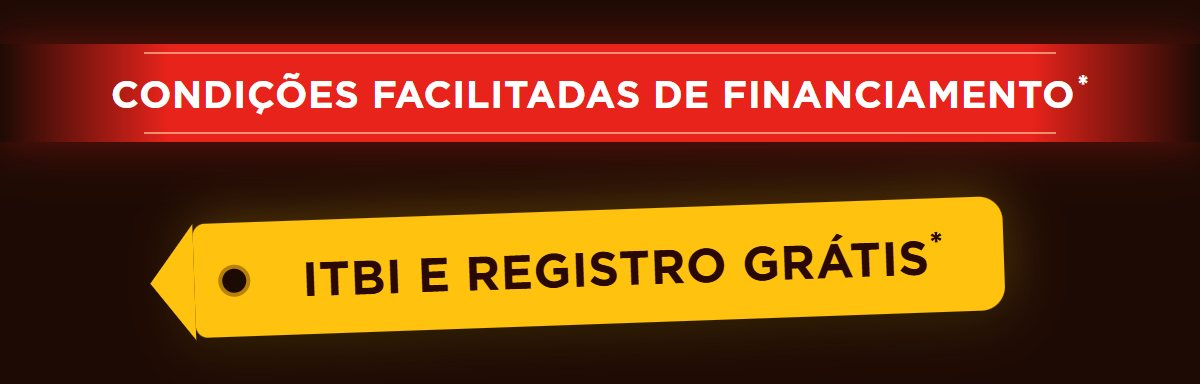
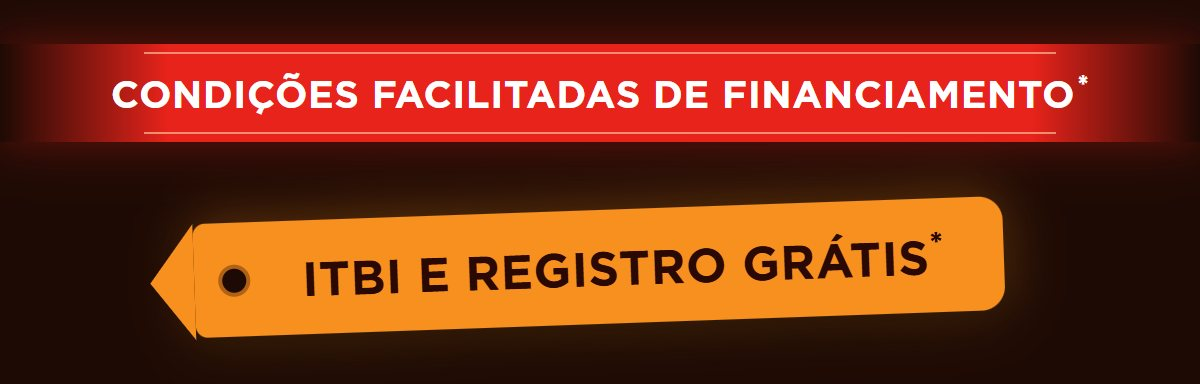
Tag de ITBI em laranja e botão de CTA em uma linha
- Tag "ITBI e registro grátis" passa de amarelo para laranja (#F7901E),
  separando-a do botão amarelo
- Fonte do botão de 20px para 18px para o texto do e-mail 01 caber em
  uma linha no desktop

Changed region(s): [[0.1233, 0.5, 0.8633, 0.9062]]

diff --git a/now29-black-2026/email-01-abertura.html b/now29-black-2026/email-01-abertura.html
@@ -86,11 +86,11 @@
               <!--[if mso]>
               <v:roundrect xmlns:v="urn:schemas-microsoft-com:vml" xmlns:w="urn:schemas-microsoft-com:office:word" href="#" style="height:74px;v-text-anchor:middle;width:544px;" arcsize="50%" strokecolor="#FFFFFF" strokeweight="3px" fillcolor="#FFC20E">
                 <w:anchorlock/>
-                <center style="color:#2A0904;font-family:Arial,sans-serif;font-size:20px;font-weight:bold;text-transform:uppercase;">Quero aproveitar essa oportunidade &rarr;</center>
+                <center style="color:#2A0904;font-family:Arial,sans-serif;font-size:18px;font-weight:bold;text-transform:uppercase;">Quero aproveitar essa oportunidade &rarr;</center>
               </v:roundrect>
               <![endif]-->
               <!--[if !mso]><!-->
-              <a href="#" target="_blank" class="btn" style="display:block;background-color:#FFC20E;color:#2A0904;font-family:'Montserrat','Segoe UI',Arial,Helvetica,sans-serif;font-size:20px;line-height:26px;font-weight:800;letter-spacing:.4px;text-transform:uppercase;text-decoration:none;text-align:center;padding:22px 20px;border:3px solid #FFFFFF;border-radius:999px;box-shadow:0 0 0 6px rgba(255,194,14,.22),0 0 38px 6px rgba(255,170,20,.65);mso-hide:all;">Quero aproveitar essa oportunidade&nbsp;&rarr;</a>
+              <a href="#" target="_blank" class="btn" style="display:block;background-color:#FFC20E;color:#2A0904;font-family:'Montserrat','Segoe UI',Arial,Helvetica,sans-serif;font-size:18px;line-height:24px;font-weight:800;letter-spacing:.3px;text-transform:uppercase;text-decoration:none;text-align:center;padding:23px 14px;border:3px solid #FFFFFF;border-radius:999px;box-shadow:0 0 0 6px rgba(255,194,14,.22),0 0 38px 6px rgba(255,170,20,.65);mso-hide:all;">Quero aproveitar essa oportunidade&nbsp;&rarr;</a>
               <!--<![endif]-->
             </td>
           </tr>

diff --git a/now29-black-2026/email-03-reta-final.html b/now29-black-2026/email-03-reta-final.html
@@ -96,11 +96,11 @@
               <!--[if mso]>
               <v:roundrect xmlns:v="urn:schemas-microsoft-com:vml" xmlns:w="urn:schemas-microsoft-com:office:word" href="#" style="height:74px;v-text-anchor:middle;width:544px;" arcsize="50%" strokecolor="#FFFFFF" strokeweight="3px" fillcolor="#FFC20E">
                 <w:anchorlock/>
-                <center style="color:#2A0904;font-family:Arial,sans-serif;font-size:20px;font-weight:bold;text-transform:uppercase;">Quero aproveitar antes de acabar &rarr;</center>
+                <center style="color:#2A0904;font-family:Arial,sans-serif;font-size:18px;font-weight:bold;text-transform:uppercase;">Quero aproveitar antes de acabar &rarr;</center>
               </v:roundrect>
               <![endif]-->
               <!--[if !mso]><!-->
-              <a href="#" target="_blank" class="btn" style="display:block;background-color:#FFC20E;color:#2A0904;font-family:'Montserrat','Segoe UI',Arial,Helvetica,sans-serif;font-size:20px;line-height:26px;font-weight:800;letter-spacing:.4px;text-transform:uppercase;text-decoration:none;text-align:center;padding:22px 20px;border:3px solid #FFFFFF;border-radius:999px;box-shadow:0 0 0 6px rgba(255,194,14,.22),0 0 38px 6px rgba(255,170,20,.65);mso-hide:all;">Quero aproveitar antes de acabar&nbsp;&rarr;</a>
+              <a href="#" target="_blank" class="btn" style="display:block;background-color:#FFC20E;color:#2A0904;font-family:'Montserrat','Segoe UI',Arial,Helvetica,sans-serif;font-size:18px;line-height:24px;font-weight:800;letter-spacing:.3px;text-transform:uppercase;text-decoration:none;text-align:center;padding:23px 14px;border:3px solid #FFFFFF;border-radius:999px;box-shadow:0 0 0 6px rgba(255,194,14,.22),0 0 38px 6px rgba(255,170,20,.65);mso-hide:all;">Quero aproveitar antes de acabar&nbsp;&rarr;</a>
               <!--<![endif]-->
             </td>
           </tr>

diff --git a/now29-black-2026/email-02-reforco.html b/now29-black-2026/email-02-reforco.html
@@ -91,11 +91,11 @@
               <!--[if mso]>
               <v:roundrect xmlns:v="urn:schemas-microsoft-com:vml" xmlns:w="urn:schemas-microsoft-com:office:word" href="#" style="height:74px;v-text-anchor:middle;width:544px;" arcsize="50%" strokecolor="#FFFFFF" strokeweight="3px" fillcolor="#FFC20E">
                 <w:anchorlock/>
-                <center style="color:#2A0904;font-family:Arial,sans-serif;font-size:20px;font-weight:bold;text-transform:uppercase;">Quero simular meu Now 29 &rarr;</center>
+                <center style="color:#2A0904;font-family:Arial,sans-serif;font-size:18px;font-weight:bold;text-transform:uppercase;">Quero simular meu Now 29 &rarr;</center>
               </v:roundrect>
               <![endif]-->
               <!--[if !mso]><!-->
-              <a href="#" target="_blank" class="btn" style="display:block;background-color:#FFC20E;color:#2A0904;font-family:'Montserrat','Segoe UI',Arial,Helvetica,sans-serif;font-size:20px;line-height:26px;font-weight:800;letter-spacing:.4px;text-transform:uppercase;text-decoration:none;text-align:center;padding:22px 20px;border:3px solid #FFFFFF;border-radius:999px;box-shadow:0 0 0 6px rgba(255,194,14,.22),0 0 38px 6px rgba(255,170,20,.65);mso-hide:all;">Quero simular meu Now 29&nbsp;&rarr;</a>
+              <a href="#" target="_blank" class="btn" style="display:block;background-color:#FFC20E;color:#2A0904;font-family:'Montserrat','Segoe UI',Arial,Helvetica,sans-serif;font-size:18px;line-height:24px;font-weight:800;letter-spacing:.3px;text-transform:uppercase;text-decoration:none;text-align:center;padding:23px 14px;border:3px solid #FFFFFF;border-radius:999px;box-shadow:0 0 0 6px rgba(255,194,14,.22),0 0 38px 6px rgba(255,170,20,.65);mso-hide:all;">Quero simular meu Now 29&nbsp;&rarr;</a>
               <!--<![endif]-->
             </td>
           </tr>

diff --git a/now29-black-2026/_src/slices.html b/now29-black-2026/_src/slices.html
@@ -81,9 +81,9 @@
   .tarja span{font-weight:700;font-size:19px;letter-spacing:.4px;text-transform:uppercase;color:#fff;white-space:nowrap}
   .tarja sup{font-size:13px;vertical-align:top;position:relative;top:-1px;margin-left:1px}
   .tag{position:relative;margin:34px auto 0;width:max-content;transform:rotate(-2deg)}
-  .tag .body{position:relative;background:var(--yellow);color:#2a0904;font-weight:700;font-size:24px;letter-spacing:.3px;
-    padding:15px 30px 13px 54px;border-radius:6px 12px 12px 6px;text-transform:uppercase;box-shadow:0 8px 22px rgba(0,0,0,.45),0 0 26px rgba(255,190,20,.35)}
-  .tag .body::before{content:"";position:absolute;left:-22px;top:0;border-style:solid;border-width:29px 22px 29px 0;border-color:transparent var(--yellow) transparent transparent}
+  .tag .body{position:relative;background:var(--orange);color:#2a0904;font-weight:700;font-size:24px;letter-spacing:.3px;
+    padding:15px 30px 13px 54px;border-radius:6px 12px 12px 6px;text-transform:uppercase;box-shadow:0 8px 22px rgba(0,0,0,.45),0 0 26px rgba(247,144,30,.4)}
+  .tag .body::before{content:"";position:absolute;left:-22px;top:0;border-style:solid;border-width:29px 22px 29px 0;border-color:transparent var(--orange) transparent transparent}
   .tag .hole{position:absolute;left:14px;top:50%;width:12px;height:12px;margin-top:-6px;border-radius:50%;background:var(--bg);box-shadow:0 0 0 2px rgba(42,9,4,.35)}
   .tag sup{font-size:16px;vertical-align:top;position:relative;top:-2px}
 
